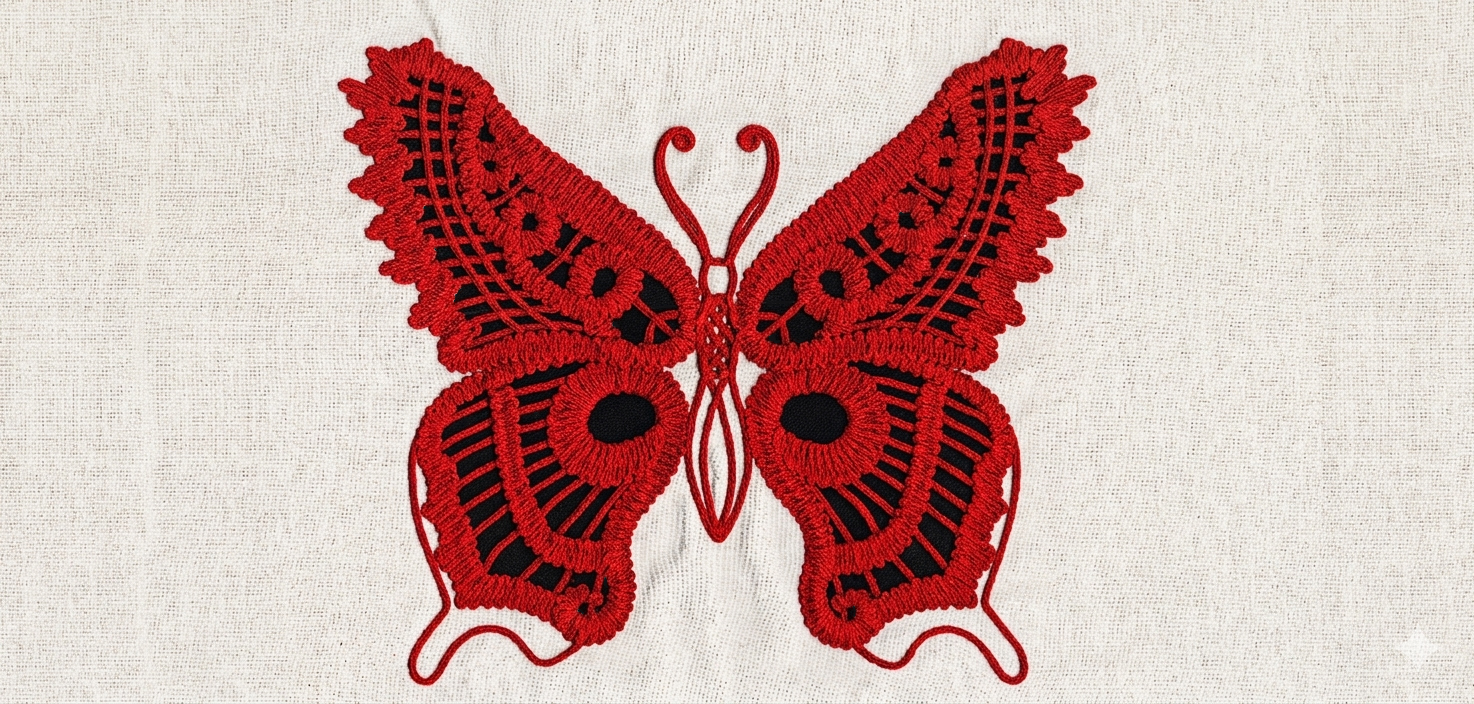
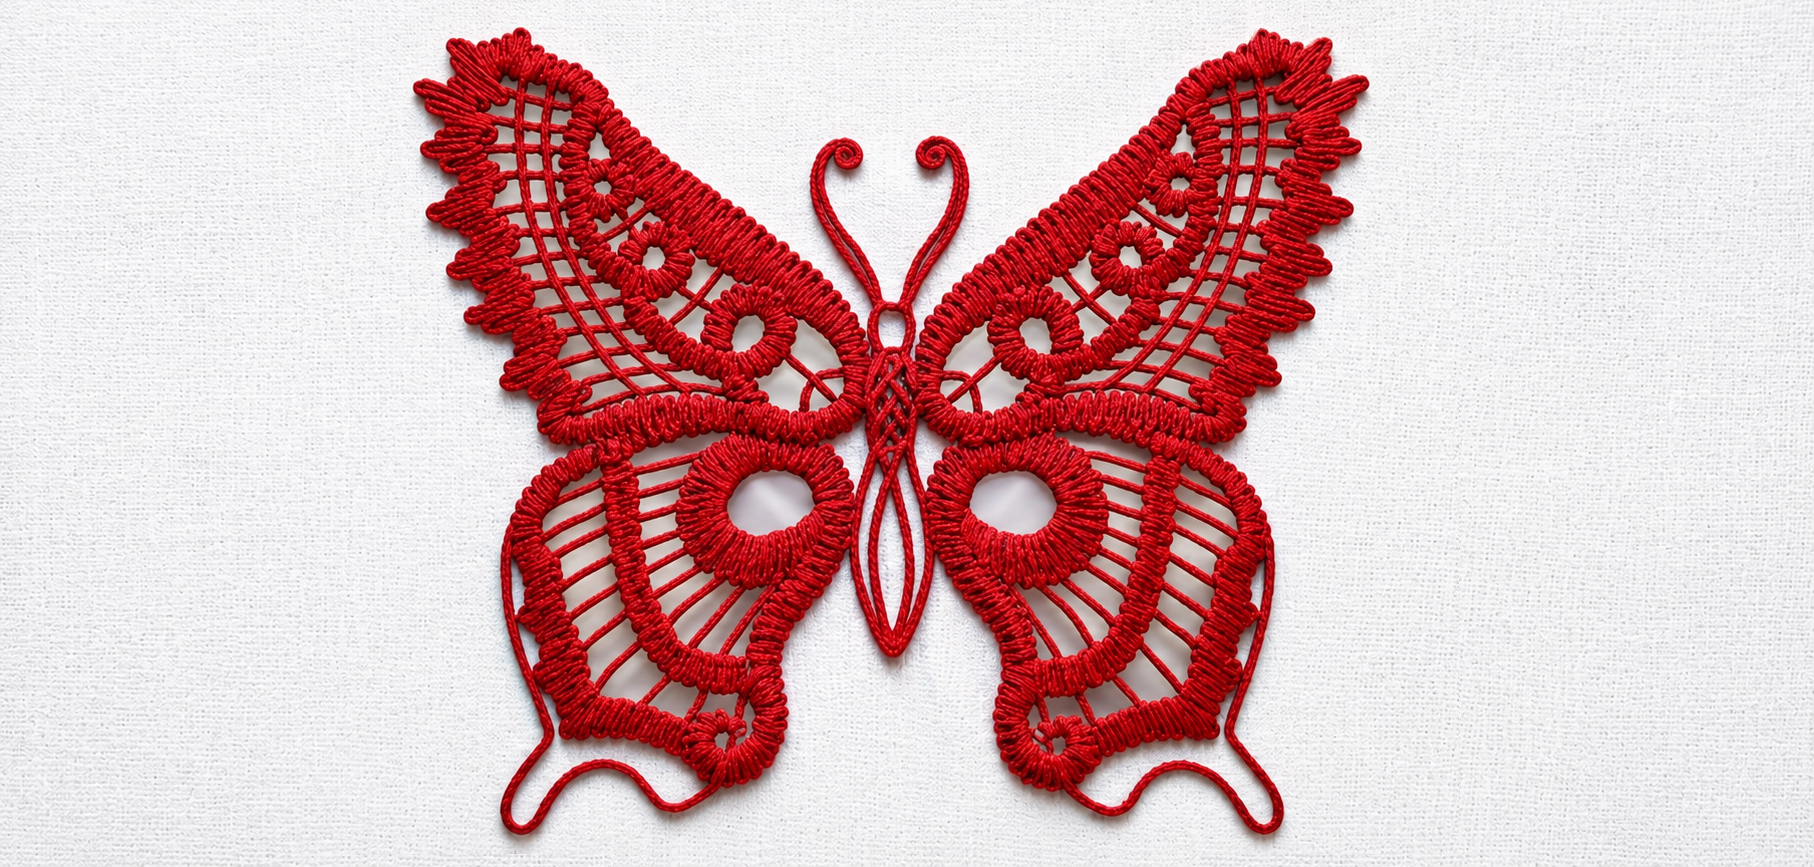
site index quase pronto falta responsivo do ultimos serviços

diff --git a/index.html b/index.html
@@ -347,7 +347,7 @@
             <div class="img-gradient"></div>
             <div class="img-pattern"></div>
             <div class="img-border">
-              <img src="img/portifolio/etiqueta-1.jpg" alt="Etiqueta Palito" />
+              <img src="img/portifolio/etiqueta-1.png" alt="Etiqueta Palito" />
             </div>
           </div>
           <div class="galeria-item-tag">ET</div>
